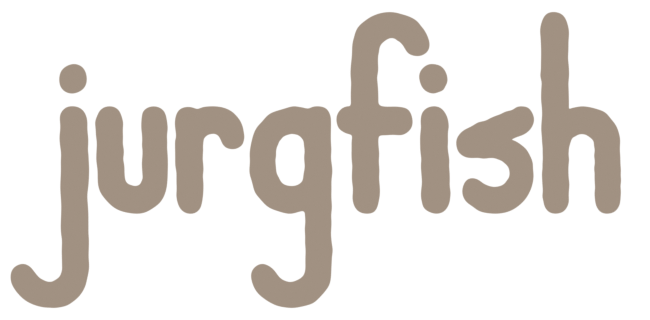
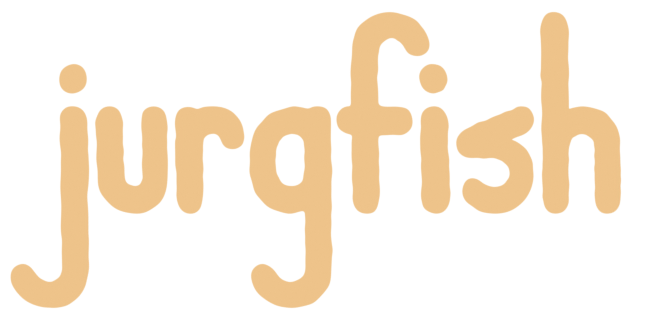
update site colors

Changed region(s): [[0.0, 0.0312, 0.9538, 0.9688]]

diff --git a/scripts/aaa-style.css b/scripts/aaa-style.css
@@ -10,8 +10,8 @@ body {
     font-family: "RobotoSlab";
     font-size: 18px;
     font-weight: 350;
-    color: #2a2a2a;
-    background-color: #f8e6d3;
+    color: #000000;
+    background-color: #eec38a;
 
     margin: 0;
     min-height: 100%;
@@ -46,22 +46,22 @@ input[type=tel] {
     appearance: none;
     font-family: "RobotoSlab";
     font-size: 18px;
-    color: #2a2a2a;
-    background-color: #f8e6d3;
+    color: #000000;
+    background-color: #eec38a;
     text-align: left;
     outline: none;
     border: 2px;
     border-radius: 8px;
     border-style: solid;
-    border-color: #2a2a2a;
+    border-color: #000000;
     width: 84px;
     padding: 12px 14px 12px 14px;
     box-sizing: border-box;
 }
 input:focus {
     outline: none;
-    color: #18919c;
-    border-color: #18919c;
+    color: #37857f;
+    border-color: #37857f;
 }
 input:focus:invalid {
     outline: none;
@@ -101,30 +101,30 @@ p {
 }
 
 a, a:link, a:visited {
-    color: #18919c;
+    color: #37857f;
     text-decoration: underline;
 }
 a:hover, a:focus {
     outline: none;
-    color: #2a2a2a;
+    color: #000000;
     cursor: pointer;
 }
 a:active {
     outline: none;
-    color: #18919c;
+    color: #37857f;
     cursor: pointer;
 }
 
 #jump, #bott, #ttop {
-    color: #2a2a2a;
-    background-color: #f8e6d3;
+    color: #000000;
+    background-color: #eec38a;
     text-align: center;
     text-decoration: none;
     outline: none;
     border: 2px;
     border-radius: 8px;
     border-style: solid;
-    border-color: #2a2a2a;
+    border-color: #000000;
     cursor: pointer;
     -webkit-user-select: none;
     -ms-user-select: none;
@@ -134,8 +134,8 @@ a:active {
 #jump, #bott { padding: 12px 14px 12px 14px; }
 #jump:focus #bott:focus {
     outline: none;
-    color: #18919c;
-    border-color: #18919c;
+    color: #37857f;
+    border-color: #37857f;
     text-decoration: none;
     cursor: pointer;
 }
@@ -158,34 +158,34 @@ a:active {
 
 @media (prefers-color-scheme: dark) {
     body {
-        color: #a19182;
+        color: #eec38a;
         background-color: #000000;
     }
     input[type=tel] {
-        color: #a19182;
+        color: #eec38a;
         background-color: #000000;
-        border-color: #a19182;
+        border-color: #eec38a;
     }
     input:focus {
         color: #37857f;
         border-color: #37857f;
     }
     input:focus:invalid {
-        color: #ed7c7c;
-        border-color: #ed7c7c;
-    }
-    input:invalid {
         color: #cd5c5c;
         border-color: #cd5c5c;
     }
+    input:invalid {
+        color: #ed7c7c;
+        border-color: #ed7c7c;
+    }
 
     a, a:link, a:visited { color: #37857f; }
-    a:hover, a:focus { color: #a19182; }
+    a:hover, a:focus { color: #eec38a; }
     a:active { color: #37857f; }
     #jump, #bott, #ttop {
-        color: #a19182;
+        color: #eec38a;
         background-color: #000000;
-        border-color: #a19182;
+        border-color: #eec38a;
     }
     #jump:focus, #bott:focus {
         color: #37857f;
@@ -202,8 +202,8 @@ a:active {
     }
     #ttop { bottom: 30px }
     #jump:hover, #bott:hover, #ttop:hover {
-        color: #18919c;
-        border-color: #18919c;
+        color: #37857f;
+        border-color: #37857f;
     }
     #jump:active, #bott:active, #ttop:active {
         color: #000000;
@@ -216,8 +216,8 @@ a:active {
         border-color: #37857f;
     }
     #jump:active, #bott:active, #ttop:active {
-        color: #a19182;
-        border-color: #a19182;
+        color: #eec38a;
+        border-color: #eec38a;
     }
 }
 @media (max-width: 662px) {
@@ -231,8 +231,8 @@ a:active {
 }
 @media (max-width: 662px) and (prefers-color-scheme: dark) {
     #jump:hover, #bott:hover, #ttop:hover, #jump:active, #ttop:active, #ttop:active {
-        color: #a19182;
-        border-color: #a19182;
+        color: #eec38a;
+        border-color: #eec38a;
     }
 }
 

diff --git a/404.html b/404.html
@@ -24,8 +24,9 @@
                 font-family: "RobotoSlab";
                 font-size: 18px;
                 font-weight: 350;
-                color: #2a2a2a;
-                background-color: #f8e6d3;
+                color: #000000;
+                background-color: #eec38a;
+
                 cursor: default;
                 margin: 0;
                 min-height: 100%;
@@ -55,27 +56,27 @@
             }
 
             a, a:link, a:visited {
-                color: #18919c;
+                color: #37857f;
                 text-decoration: underline;
             }
             a:hover, a:focus {
                 outline: none;
-                color: #2a2a2a;
+                color: #000000;
                 cursor: pointer;
             }
             a:active {
                 outline: none;
-                color: #18919c;
+                color: #37857f;
                 cursor: pointer;
             }
 
             @media (prefers-color-scheme: dark) {
                 body {
-                    color: #a19182;
+                    color: #eec38a;
                     background-color: #000000;
                 }
                 a, a:link, a:visited { color: #37857f; }
-                a:hover, a:focus { color: #a19182; }
+                a:hover, a:focus { color: #eec38a; }
                 a:active { color: #37857f; }
             }
             @media (min-width: 662px) {

diff --git a/scripts/home-style.css b/scripts/home-style.css
@@ -10,7 +10,7 @@ body {
     font-family: "RobotoSlab";
     font-size: 18px;
     font-weight: 400;
-    color: #a19182;
+    color: #eec38a;
     background-color: #000000;
 
     margin: 0;
@@ -65,7 +65,7 @@ a, a:link, a:visited {
 }
 a:hover, a:focus {
     outline: none;
-    color: #a19182;
+    color: #eec38a;
     cursor: pointer;
 }
 a:active {
